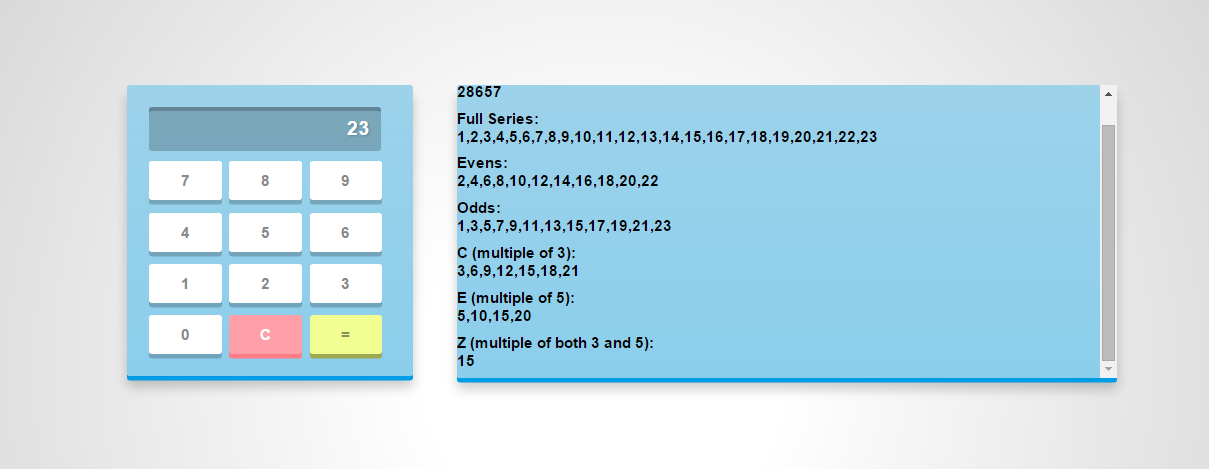
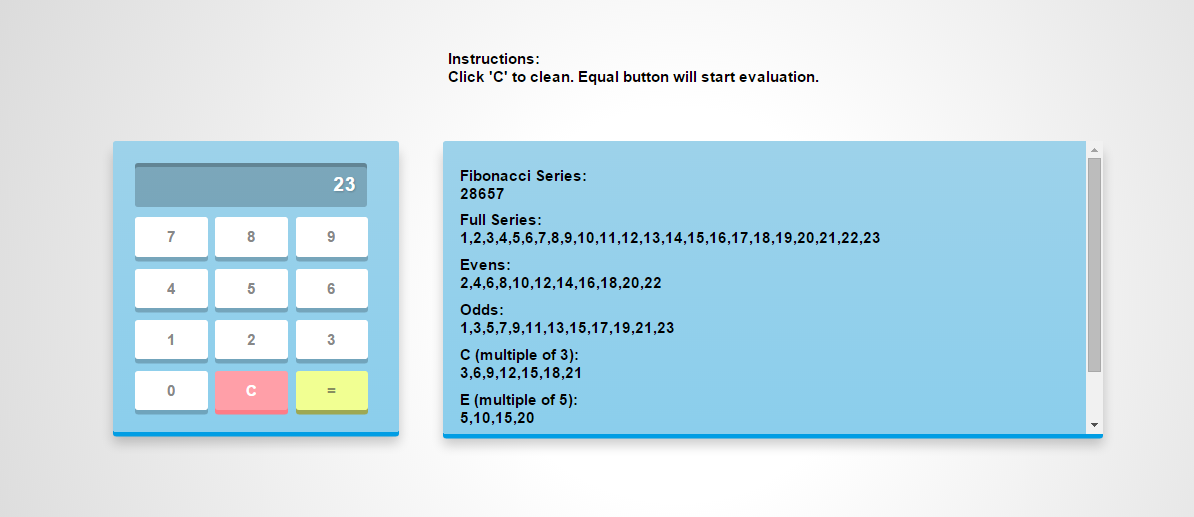
modified snapshot. add instruction for buttons

Changed region(s): [[0.3719, 0.0896, 0.9296, 0.8657], [0.093, 0.1791, 0.3409, 0.8657], [0.8987, 0.7164, 0.9296, 0.7761]]

diff --git a/WebAPI/WebAPI/Content/Site.css b/WebAPI/WebAPI/Content/Site.css
@@ -27,7 +27,7 @@ html {
 	height: auto;
 
     float: left;
-	margin-top: 100px;
+	margin-top: 50px;
     margin-left: 100px;
 
 	padding: 20px 20px 9px;
@@ -37,14 +37,21 @@ html {
 	border-radius: 3px;
 	box-shadow: 0px 4px #009de4, 0px 10px 15px rgba(0, 0, 0, 0.2);
 }
+#instruction {
+    margin: 63px auto 0 auto;
+    display: block;
+    width: 34%;
+}
 
 #resultSection {
     width: 600px;
     height: 266px;
     display: block;
     float: left;
-    margin-top: 100px;
+    margin-top: 50px;
     margin-left: 40px;
+
+    padding: 15px;
 
     overflow: auto;
     -ms-word-wrap: break-word;
